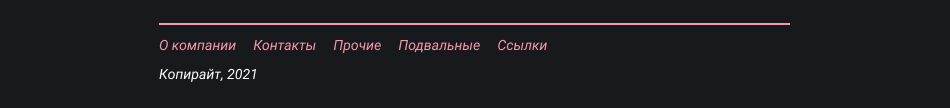
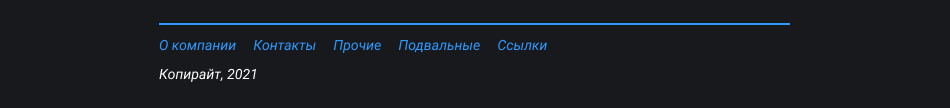
mainColor > #2E9AFF

Changed region(s): [[0.1526, 0.3611, 0.58, 0.4722], [0.1526, 0.1944, 0.8242, 0.25]]

diff --git a/docs/demosstyle.md b/docs/demosstyle.md
@@ -140,6 +140,8 @@ body {
 | Инструменты | #41E847       | #FF8630        |
 | Рецепты     | #C56FFF       | #41E847        |
 
+В примерах этого гайда мы будем использовать цвет раздела CSS — `#2E9AFF`, но если вы делаете демку для другого раздела, замените его на подходящий.
+
 ## Текст и типографика
 
 ### Пишите по-русски
@@ -248,12 +250,12 @@ code {
 
 ### Инлайновые элементы
 
-Если нужно визуально выделить несколько слов в тексте, а курсивное и полужирное начертания исчерпали свои семантические возможности, можно использовать выделение основным цветом раздела (`mainColor`):
+Если нужно визуально выделить несколько слов в тексте, а курсивное и полужирное начертания исчерпали свои семантические возможности, можно использовать выделение основным цветом раздела:
 
 ```css
 span {
   border-radius: 3px;
-  background-color: mainColor;
+  background-color: #2E9AFF;
 }
 ```
 
@@ -267,14 +269,14 @@ span {
 a {
   border-radius: 3px;
   color: inherit;
-  -webkit-text-decoration-color: mainColor;
-  text-decoration-color: mainColor;
+  -webkit-text-decoration-color: #2E9AFF;
+  text-decoration-color: #2E9AFF;
   text-decoration-thickness: 2px;
   transition: background-color 0.2s linear;
 }
 
 a:hover, a:focus {
-  background-color: mainColor;
+  background-color: #2E9AFF;
   transition: background-color 0.2s linear;
   outline-width: 0;
 }
@@ -311,7 +313,7 @@ ul::before {
   right: calc(100% + 25px); /* размещаем у левого края + отступ 25 пикселей */
   top: 7px;
   padding: 2px 7px;
-  background-color: mainColor;
+  background-color: #2E9AFF;
   color: #000000;
   font-size: 14px;
 }
@@ -521,7 +523,7 @@ input {
 }
 
 input:focus {
-  border-color: mainColor;
+  border-color: #2E9AFF;
   outline: none;
 }
 
@@ -541,7 +543,7 @@ textarea {
 }
 
 textarea:focus {
-  border-color: mainColor;
+  border-color: #2E9AFF;
   outline: none;
 }
 ```
@@ -644,7 +646,7 @@ textarea:focus {
   width: 14px;
   height: 14px;
   border-radius: 3px;
-  background-color: mainColor;
+  background-color: #2E9AFF;
 }
 ```
 
@@ -880,12 +882,12 @@ a:hover, a:focus {
 }
 
 .button:focus-visible {
-  border: 2px solid mainColor;
+  border: 2px solid #2E9AFF;
   outline: none;
 }
 
 .button:focus {
-  border: 2px solid mainColor;
+  border: 2px solid #2E9AFF;
   outline: none;
 }
 
@@ -902,7 +904,7 @@ a:hover, a:focus {
 
 ```css
 header {
-  border-bottom: 2px solid mainColor;
+  border-bottom: 2px solid #2E9AFF;
   padding-bottom: 10px;
   font-size: 14px; /* на 2 px меньше, чем основной шрифт демо */
   font-style: italic;
@@ -913,14 +915,14 @@ header {
 
 ```css
 footer {
-  border-top: 2px solid mainColor;
+  border-top: 2px solid #2E9AFF;
   padding-top: 10px;
   font-size: 14px; /* на 2 px меньше, чем основной шрифт демо */
   font-style: italic;
 }
 
 a {
-  color: mainColor;
+  color: #2E9AFF;
   text-decoration: none;
 }
 ```
